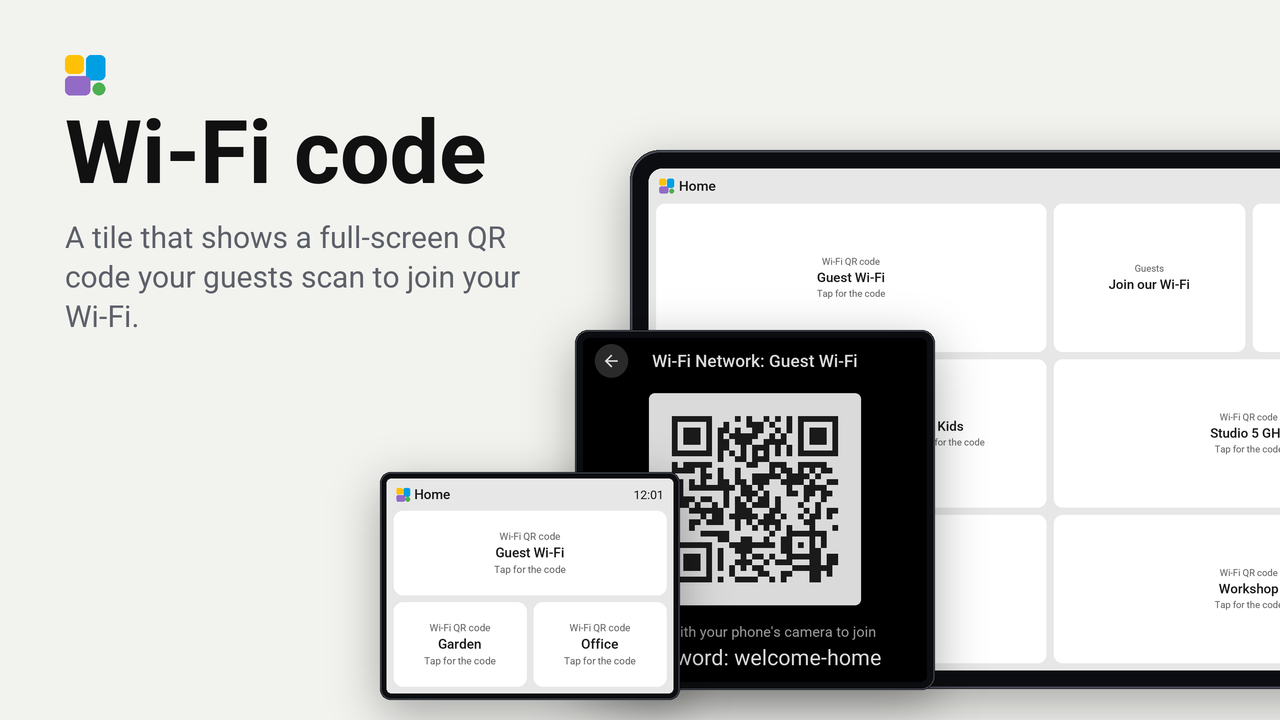
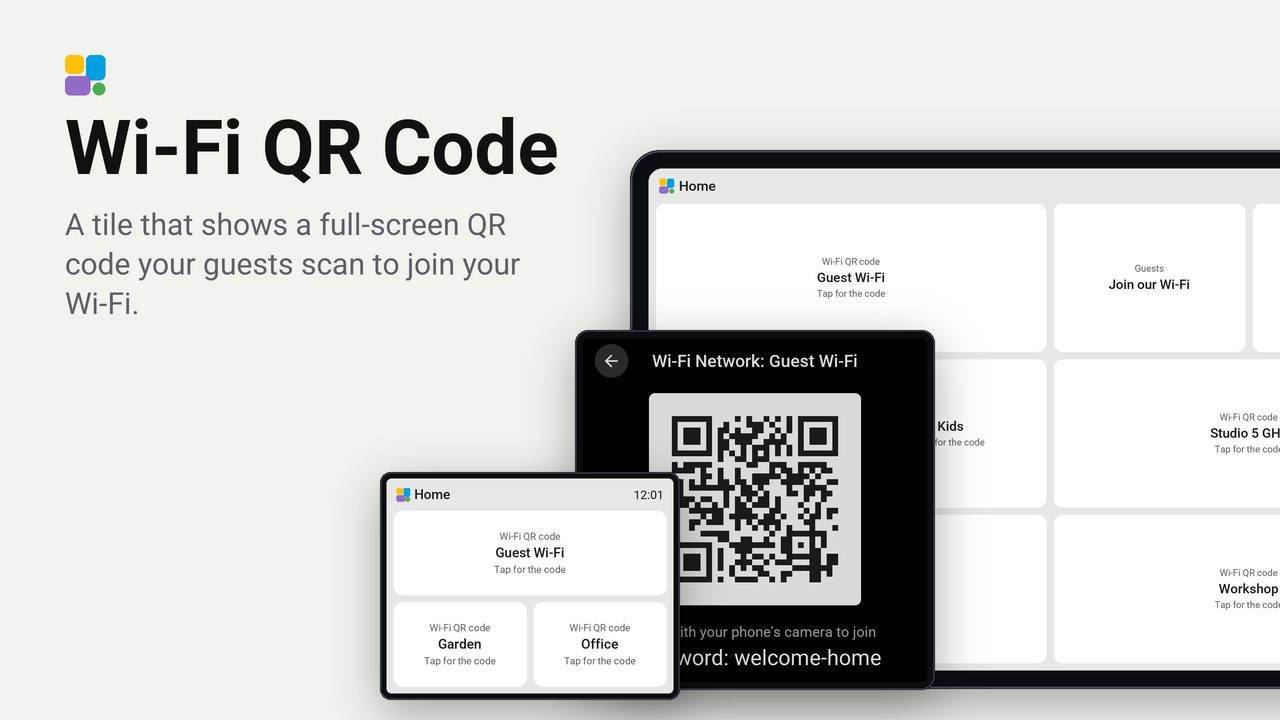
Rename the plugin to Wi-Fi QR Code
The app, tile and card names, the README and store.png; the id stays
wifi_qr. Version 0.3.3.

Changed region(s): [[0.0312, 0.1528, 0.4375, 0.4583]]

diff --git a/README.md b/README.md
@@ -1,4 +1,4 @@
-# Wi-Fi code
+# Wi-Fi QR Code
 
 A tile with your Wi-Fi network's name. Tap it and the screen shows a large QR code over its whole width: a guest
 points their phone's camera at it and joins the network, without typing the password.
@@ -6,7 +6,7 @@ points their phone's camera at it and joins the network, without typing the pass
 ## Set up
 
 1. Add the plugin to a screen in Tessera. The screen builds once.
-2. In Layout, place the **Wi-Fi code** tile from the library's Plugins group.
+2. In Layout, place the **Wi-Fi QR Code** tile from the library's Plugins group.
 3. In the inspector, fill in the network name and the password, and choose the security (WPA for almost every home
    network). Leave the password empty for an open network.
 4. Tap the tile on the screen. Tap the code, or Back, to close it.

diff --git a/CHANGELOG.md b/CHANGELOG.md
@@ -1,5 +1,8 @@
 # Changelog
 
+## 0.3.3
+- The plugin and its tile are called Wi-Fi QR Code.
+
 ## 0.3.2
 - The card's title says what it is: "Wi-Fi Network: " before the network's name.
 
